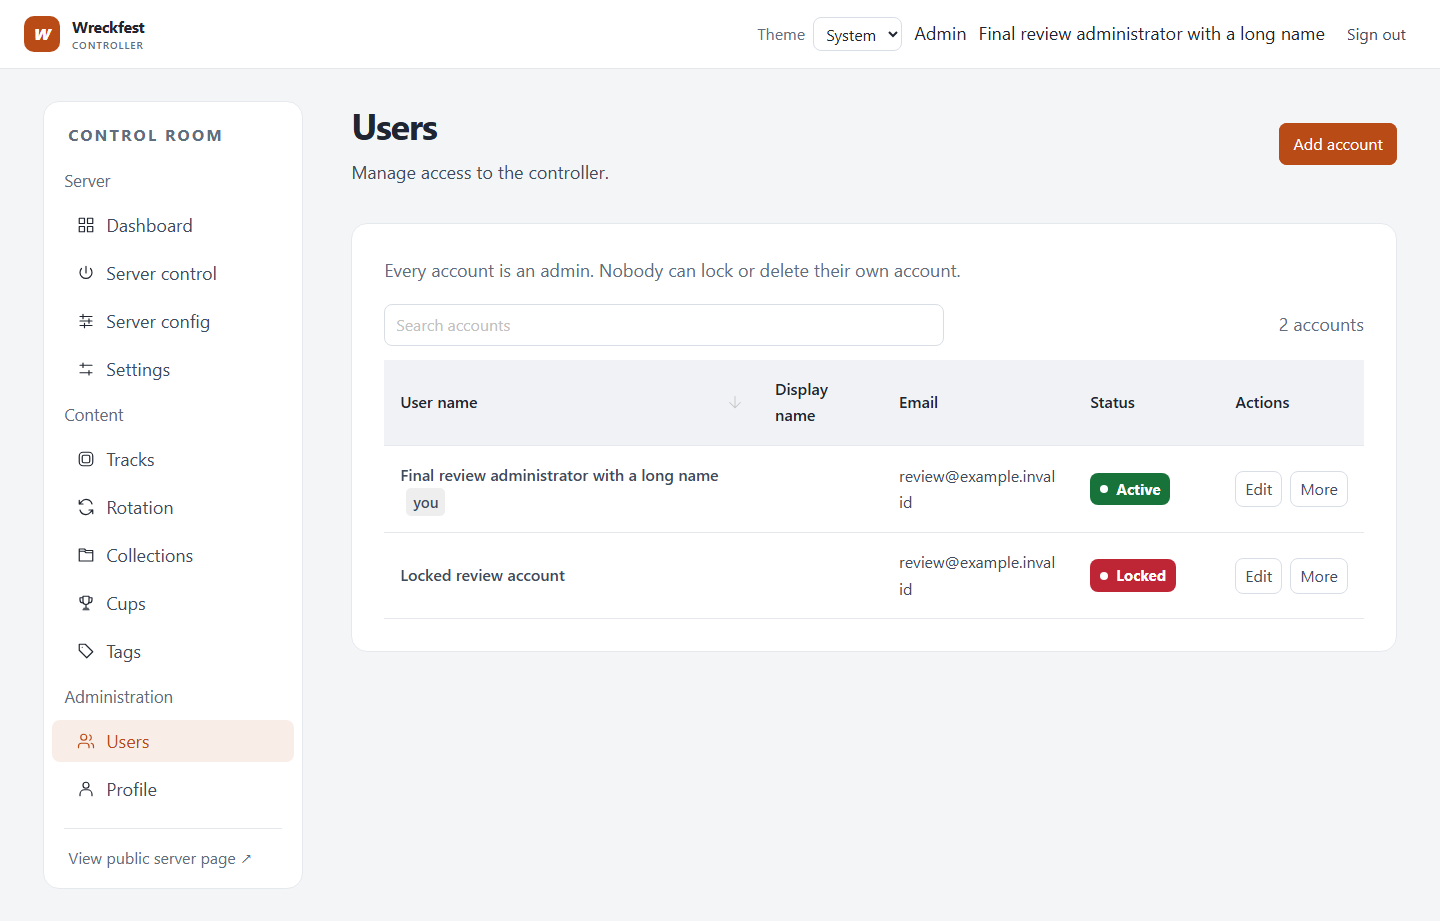
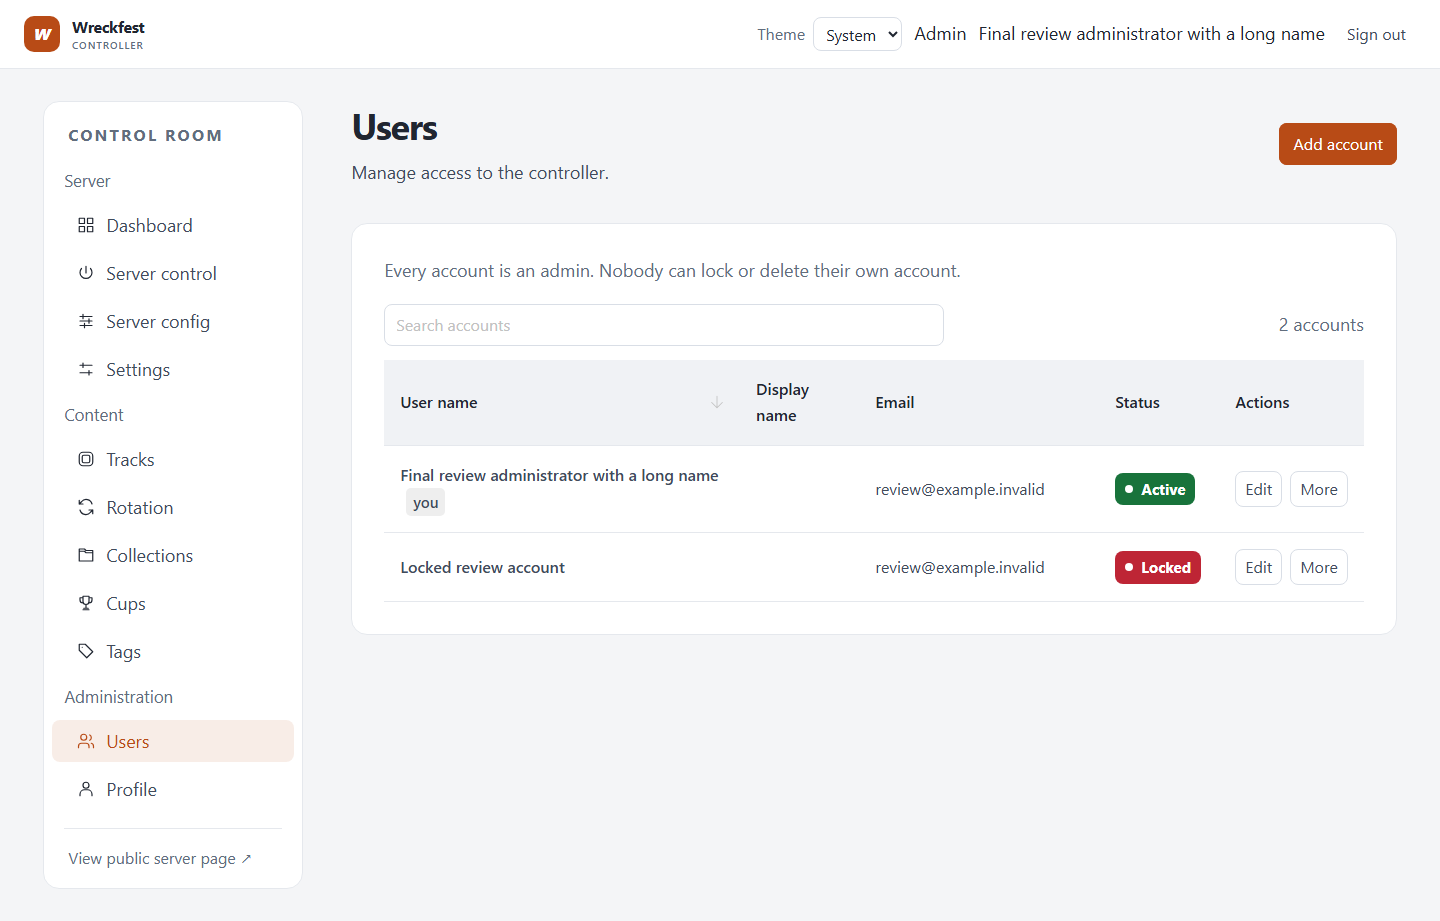
Polish status semantics and account table after review

diff --git a/web/src/views/admin/CupsView.test.ts b/web/src/views/admin/CupsView.test.ts
@@ -2,6 +2,7 @@ import { afterEach, beforeEach, describe, expect, it, vi } from 'vitest'
 import { defineComponent, h } from 'vue'
 import { DOMWrapper, flushPromises, mount, type VueWrapper } from '@vue/test-utils'
 import { NDialogProvider, NMessageProvider } from 'naive-ui'
+import StatusBadge from '@/components/StatusBadge.vue'
 import CupsView from './CupsView.vue'
 import RotationPanel from './rotation/RotationPanel.vue'
 
@@ -117,6 +118,12 @@ describe('CupsView', () => {
     // Unsaved edits do not hide a notice waiting inside.
     expect(wrapper!.text()).toContain('Changed on the server')
     expect(wrapper!.text()).not.toContain('Now running')
+    expect(wrapper!.findAllComponents(StatusBadge).find((badge) => badge.text() === 'Changed on the server')!.props('tone')).toBe('warning')
+    panel.vm.$emit('state', { status: 'ready', loaded: true, tracks: 3, cupName: 'Friday Derby', dirty: true, notice: 'conflict' })
+    await flushPromises()
+    expect(wrapper!.findAllComponents(StatusBadge).find((badge) => badge.text() === 'Changed elsewhere')!.props('tone')).toBe('negative')
+    panel.vm.$emit('state', { status: 'ready', loaded: true, tracks: 3, cupName: 'Friday Derby', dirty: true, notice: 'stale' })
+    await flushPromises()
 
     // Collapsed, but mounted: opening shows the same panel, edits and all.
     const toggle = wrapper!.find('button[aria-expanded]')
@@ -147,6 +154,7 @@ describe('CupsView', () => {
     expect(wrapper!.text()).toContain('Collection: Evening')
     expect(wrapper!.text()).toContain('1 tracks of its own')
     expect(labelled('Activate Sunday Race').attributes('disabled')).toBeDefined()
+    expect(wrapper!.findAllComponents(StatusBadge).find((badge) => badge.text() === 'Active')!.props('tone')).toBe('positive')
   })
 
   // A linked cup sends its collection, not the collection's tracks; everything else as it was.
@@ -569,6 +577,7 @@ describe('CupsView', () => {
 
     expect(wrapper!.text()).toContain('(warmup 19:30, ends 21:30)')
     expect(wrapper!.find('.flag').text()).toBe('Warmup')
+    expect(wrapper!.findAllComponents(StatusBadge).find((badge) => badge.text() === 'Warmup')!.props('tone')).toBe('warning')
   })
 
   it('refreshes when the hub says a cup started or ended', async () => {

diff --git a/web/src/views/admin/rotation/RotationPanel.test.ts b/web/src/views/admin/rotation/RotationPanel.test.ts
@@ -2,6 +2,7 @@ import { afterEach, beforeEach, describe, expect, it, vi } from 'vitest'
 import { defineComponent, h } from 'vue'
 import { DOMWrapper, flushPromises, mount, type VueWrapper } from '@vue/test-utils'
 import { NDialogProvider, NMessageProvider } from 'naive-ui'
+import StatusBadge from '@/components/StatusBadge.vue'
 import RotationPanel, { type RotationState } from './RotationPanel.vue'
 
 const api = vi.hoisted(() => ({ GET: vi.fn(), POST: vi.fn(), PUT: vi.fn(), DELETE: vi.fn() }))
@@ -126,6 +127,7 @@ describe('RotationPanel', () => {
     await mountPanel()
 
     expect(wrapper!.text()).toContain('Set by Friday Derby')
+    expect(wrapper!.findAllComponents(StatusBadge).find((badge) => badge.text() === 'Cup')!.props('tone')).toBe('neutral')
   })
 
   // The rotation's version guards the file: a save made against it keeps every track setting.

diff --git a/web/src/views/HomeView.test.ts b/web/src/views/HomeView.test.ts
@@ -57,6 +57,7 @@ describe('HomeView', () => {
     expect(wrapper.findAll('.game-color-5')).toHaveLength(2)
     expect(wrapper.text()).toContain('3 players, 10 bots / 24 total')
     expect(wrapper.find('.server-status').text()).toBe('UP')
+    expect(wrapper.findComponent(StatusBadge).attributes('role')).toBe('status')
     expect(wrapper.findComponent(StatusBadge).props('tone')).toBe('positive')
     state.overview = overview
   })
@@ -148,5 +149,6 @@ describe('HomeView', () => {
     expect(wrapper.text()).not.toContain('NO CONNECTION')
     expect(wrapper.text()).not.toContain('Last known · connection unavailable')
     expect(wrapper.find('.server-status').text()).toBe('UP')
+    expect(wrapper.findComponent(StatusBadge).attributes('role')).toBe('status')
   })
 })

diff --git a/web/src/views/admin/UsersView.vue b/web/src/views/admin/UsersView.vue
@@ -228,11 +228,11 @@ const columns: DataTableColumns<User> = [
     render: (user) => h('span', { class: 'row-name' }, [user.userName, self(user) ? h(NTag, { size: 'small', bordered: false, class: 'flag' }, { default: () => 'you' }) : null]),
   },
   { title: 'Display name', key: 'displayName', render: (user) => user.displayName ?? '' },
-  { title: 'Email', key: 'email', render: (user) => user.email ?? '' },
+  { title: 'Email', key: 'email', width: 240, render: (user) => user.email ?? '' },
   {
     title: 'Status',
     key: 'isLockedOut',
-    width: 145,
+    width: 120,
     render: (user) => h(StatusBadge, { tone: user.isLockedOut ? 'negative' : 'positive', compact: true }, { default: () => (user.isLockedOut ? 'Locked' : 'Active') }),
   },
   {

diff --git a/web/src/views/admin/rotation/RotationPanel.vue b/web/src/views/admin/rotation/RotationPanel.vue
@@ -384,7 +384,7 @@ onBeforeUnmount(() => stops.forEach((stop) => stop()))
       <div class="summary">
         <p class="source">
           <template v-if="cup">
-            <StatusBadge compact tone="positive">Cup</StatusBadge>
+            <StatusBadge compact tone="neutral">Cup</StatusBadge>
             <span>Set by <strong>{{ cup.name }}</strong><template v-if="cup.activatedAt">, active since {{ formatWhen(cup.activatedAt) }}</template>.</span>
           </template>
           <template v-else>

diff --git a/docs/design-system.md b/docs/design-system.md
@@ -63,3 +63,5 @@ Verified on 6 October 2026: 275 tests in 35 files, production build, 112 route/t
 Controls use 36/42/48px heights from the shared foundation; tag chips use 28/32/36px heights and 15–16px text. Semantic status badges use their own high-contrast fills, while descriptive tag chips use the theme's contextual colors. Form validation colors remain readable theme foreground colors; they are not badge backgrounds.
 
 Use the label style for eyebrows (15px, secondary text, .06em tracking), the item style for server action headings (22px), and metadata style for explanations (16px). Native section attributes such as aria-labelledby pass through ContentSection without an extra component API.
+
+Review polish verified on 7 October 2026: Home retains its opt-in status live region; cup rotation source badges are neutral context rather than health indicators; account status/email columns have room for readable text. The 68 affected tests, production build, and 16 additional Users/Rotation theme/viewport cases passed.
